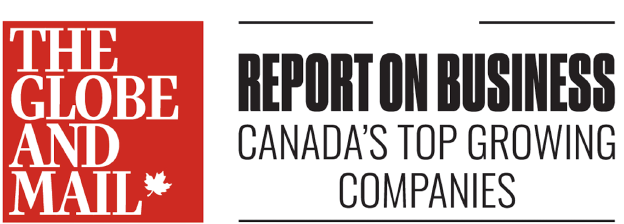
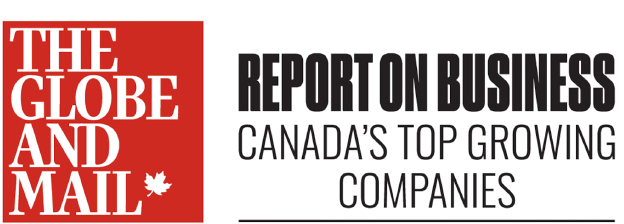
Resize nav images

Changed region(s): [[0.7612, 0.0938, 1.0, 0.125], [0.3654, 0.0938, 0.609, 0.125]]

diff --git a/css/main.css b/css/main.css
@@ -555,7 +555,7 @@ button:focus {
 }
 
 .navbar-brand img {
-  max-width: 100px;
+  max-width: 150px;
 }
 
 .navbar-expand-md .navbar-nav .nav-link:focus,
